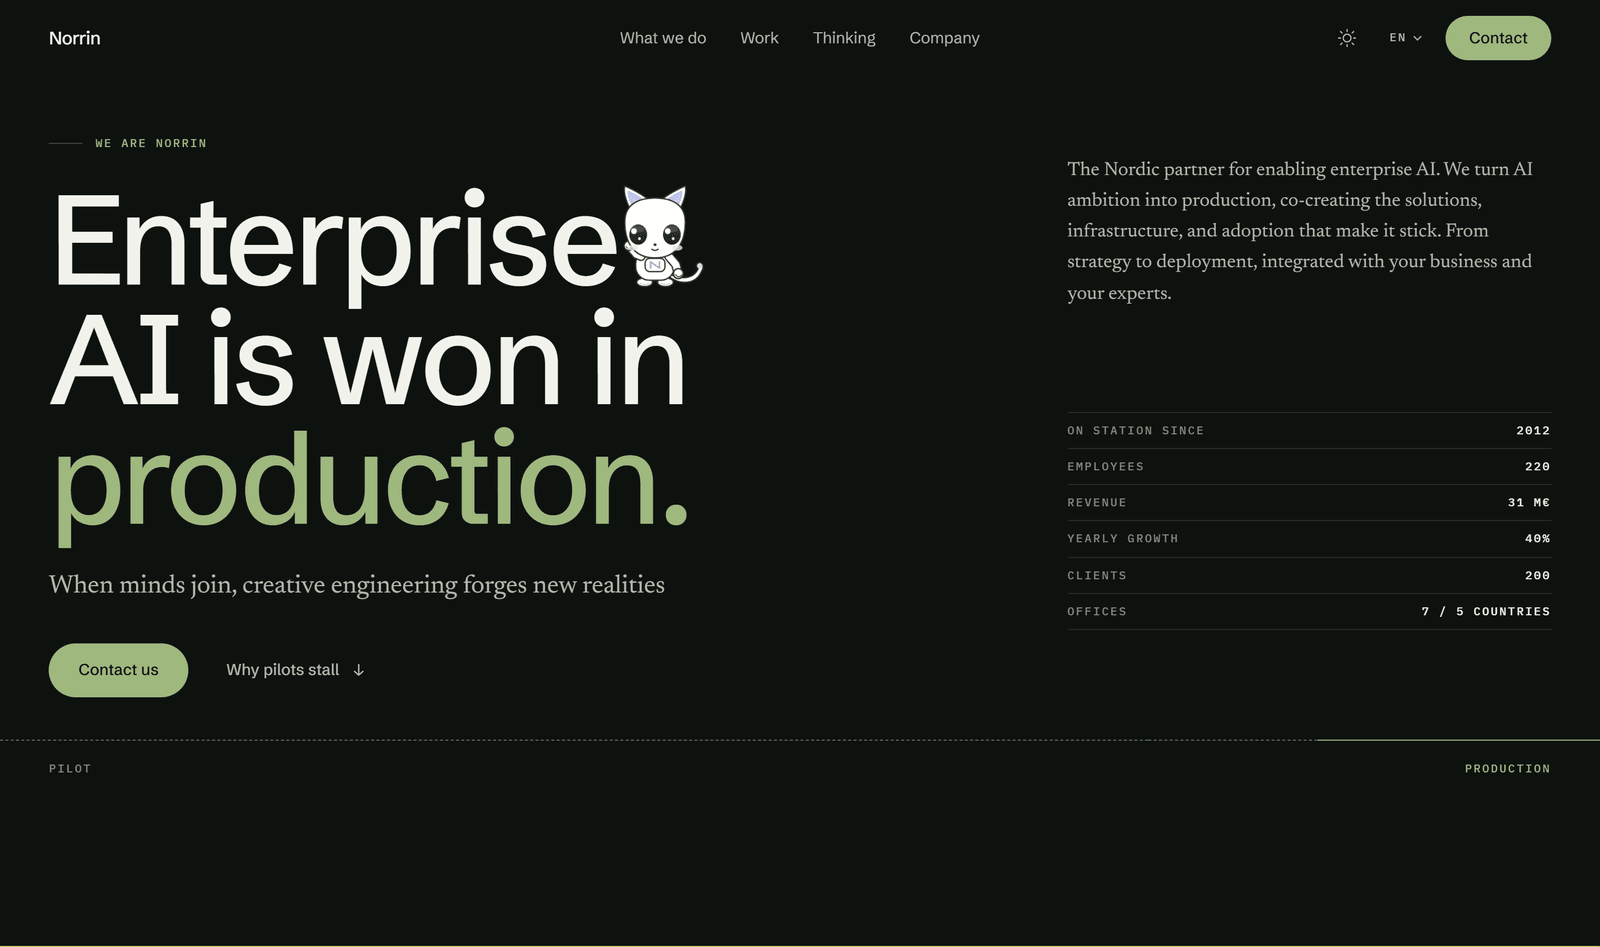
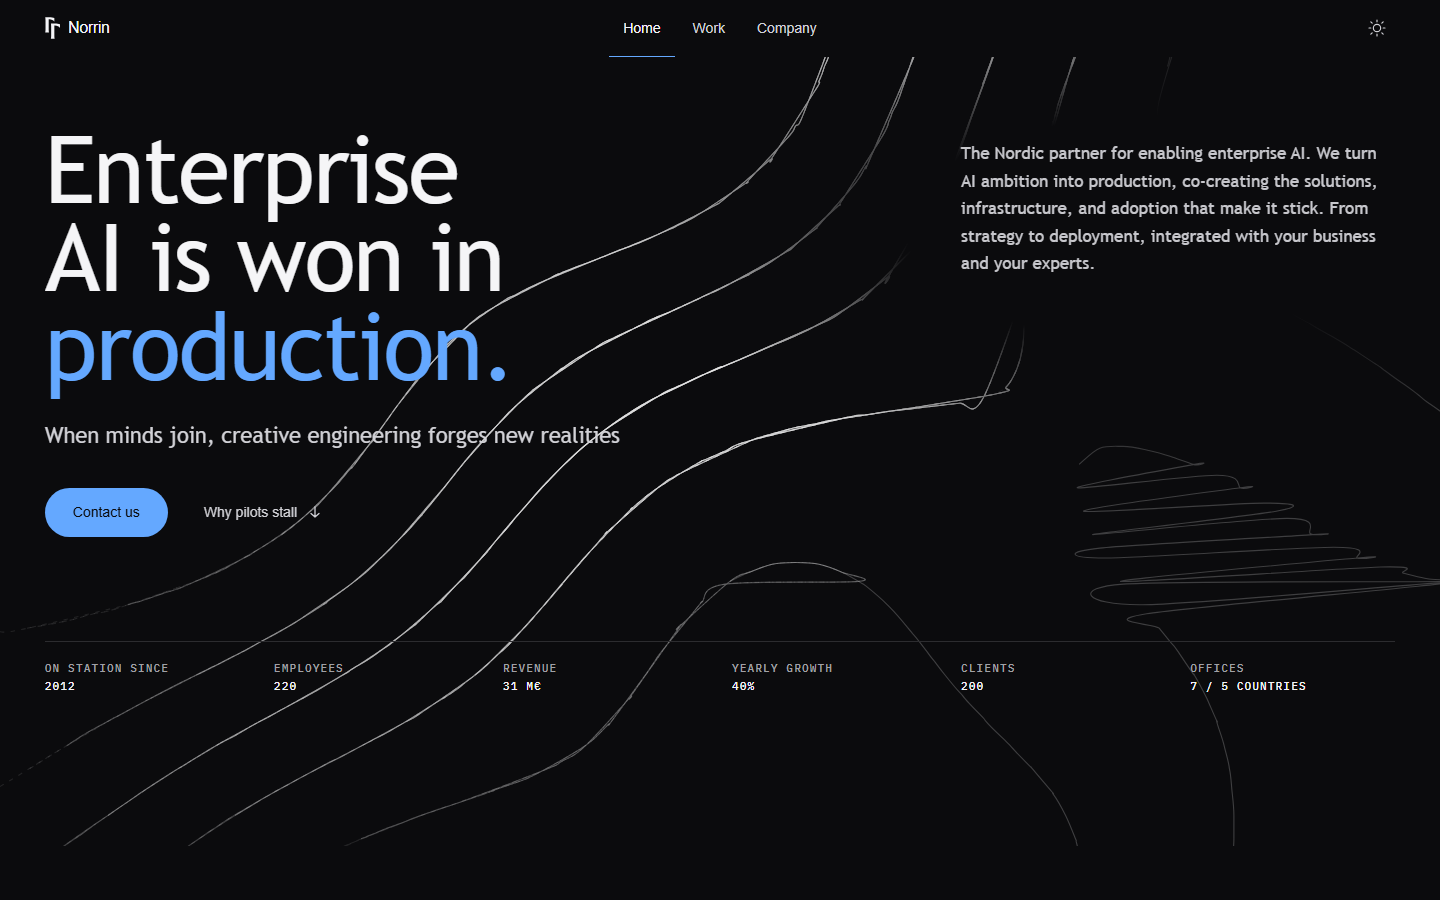
Simplify the README and refresh its screenshots
The README described a site that no longer exists: the deleted mascot, five routes, the old palette and fonts. It now covers the three pages, how to run and check the site, the stack, where things are, and what is and is not Norrin's. The screenshots are retaken from the current build.

diff --git a/README.md b/README.md
@@ -1,3 +1,5 @@
+# Norrin redesign
+
 An unsolicited redesign of a real company's website, built only from what they publish.
 
 hei I'm Anuj. This started as a design exercise and turned into an argument. Norrin's whole
@@ -7,233 +9,95 @@ homepage that sentence is an `h3` at 19.5px, two sections down, under a webinar 
 what the site looks like when that sentence is the point. That's why this exists.
 
 It's a speculative piece and it stays one. I have no brief, no analytics, no access to anyone
-at Norrin, and none of this is endorsed by them. Deployed on Vercel.
+at Norrin, and none of this is endorsed by them.
 
 **Live:** https://norrin-redesign.vercel.app
 
-AI blurp starts from here:
+![The home page](docs/images/hero.png)
 
-Everything on the page is built to make one claim *visible* rather than merely stated. One
-rule runs the length of the site. Left of the crossing it is dashed and lichen-grey —
-provisional, a pilot, not load-bearing. Right of it the rule goes solid — committed, in
-production. It is the only decorative device here, and it appears at five scales: the hero
-horizon, the spine of the pilot→production diagram, the company timeline (where it inverts
-cleanly for time — what happened is solid, what is ahead is dashed), the section rules, and
-the line that finally completes edge-to-edge above the closing CTA. The argument is the
-layout.
+## What's in it
 
-![The hero](docs/images/hero.png)
+Three pages:
 
-The hero: their thesis at display size with the `h1` it never had, their positioning
-statement hung from the cap line of "Enterprise", and the six public figures they bury on
-`/about-us` set as a station log. Nori stands in the notch beside the headline.
-
-`01 The gap` draws that argument rather than describing it, and it is the one section that
-re-lays-out rather than reflowing: at 320px the rule turns vertical and the three marks
-become a rail.
-
-![Careers](docs/images/careers.png)
-
-`Careers` — the one band of norrin.com this site had no counterpart for. It stands on
-Norrin's own team photograph under a scrim, with the invitation on the left and their values
-— "We believe in" and "Ways of working", verbatim from `/about-us` — as tabs on the right.
-
-![Proof](docs/images/proof.png)
-
-`07 Track record` — the 2012 → 2024 merger → 2025 Sweden → 2027 listing arc, drawn on the
-production line instead of left as one paragraph of prose.
-
-Two surfaces hang off the hash rather than the page: **`#compare`** puts each section of
-norrin.com beside the same section rebuilt, and **`#mascots`** is the pose workbench. Neither
-is in the nav; the homepage should make the argument rather than talk about it.
-
-## How it works
-
-The palette is derived from **Norrin's own published theme tokens**, extracted from their
-HubSpot theme CSS — not invented. Their system is a named Nordic nature palette (`moss`,
-`sun`, `forest`, `lichen`, `sand`, `bark`, `sky`, `turquoise`) that their live site barely
-exploits. Four survive as UI colours; seven nature colours is a mood board, not a system.
-
-Every token is declared once via `light-dark()`, so `[data-theme]` is the only switch. Dark
-is the default and it is in the markup — `<html data-theme="dark">` — not applied by script,
-so the dark-first flash cannot happen and a visitor with JS off still gets the theme the page
-was designed on.
-
-| Token | Light | Dark | Role |
-|---|---|---|---|
-| `--ground` | `#f8f7f3` | `#0e120f` | page — warm paper, `sand`'s only survival |
-| `--surface` | `#f1f0ea` | `#161b17` | alternating bands |
-| `--inverse` | `#123e28` *(forest)* | `#16452c` | the two inverted sections — raised, not deepened, in dark |
-| `--ink` / `-2` / `-3` | `#14170f` / `#4a4d42` / `#696d5f` | `#f2f2ec` / `#b4b8ac` / `#868a7c` | text levels |
-| `--hairline` / `-strong` | `#d8d7cc` / `#b3b3a5` | `#292f2a` / `#404841` | **all** separation |
-| `--accent` | `#1a5335` *(forest, lifted)* | `#9fb87e` *(sage)* | the only accent touching type or stroke |
-| `--signal` | `#f6f279` *(sun)* | same | fill only, three uses per page |
-| `--inactive` | `#88967e` *(lichen)* | `#5d6a55` | "not yet in production" — strokes only |
-
-Three rules hold it together:
-
-1. **Separation is 1px hairlines. There are zero box-shadows on the site.**
-2. **Sun is a signal, never a surface.** Anything sitting on sun uses fixed dark ink in both themes.
-3. **Radius means you can touch it.** Structure stays square — rules, bands, ruled tables, photographs. Only what responds is rounded.
-
-Typography is three self-hosted families: **Schibsted Grotesk** (display and UI),
-**Newsreader** (thesis, leads, case bodies), **IBM Plex Mono** (indices, unit labels,
-telemetry). Norrin's own faces are available to this demo — it is private and built only to
-show Norrin — but their heading face is a script, which in an enterprise-AI context costs
-them authority.
-
-## Nori
-
-Nori is the mascot: a small white robot with a lavender antenna. `tools/nori.mjs` draws the
-character once and emits every `public/nori-*.svg` — 13 poses plus a head crop used as the
-nav mark and favicon. **The app never recolours or re-paths the drawings.** `Nori.tsx` places,
-sizes and idles them and nothing else.
-
-| Pose | Where it is used |
+| Page | Sections |
 |---|---|
-| `prop` | the hero, standing in the notch beside "Enterprise" |
-| `sit` | `04 Customers` — seated on a rule |
-| `peek` | `05 Thinking` — over a long ledge |
-| `read` | `07 Track record` |
-| `wave` | the footer |
+| `/` | Hero, The Gap, Pillars, Contact |
+| `/work` | Customer cases, Roles, Track record |
+| `/company` | Thinking, Careers |
 
-Each pose is drawn to meet **one kind of edge** and they are not interchangeable. The rule
-was learned the expensive way: **Nori may touch a rule, never type.** A white character with
-a thin contour resting a hand on white ink has no visible contact point — every join that
-works on this site is the mascot meeting a hairline, the production line, or a card border.
-Idles pivot on a **measured contact point** (`anchors.ts`), not the box centre, so a figure
-resting on a rule never lifts off it.
+![Customer cases on /work](docs/images/work.png)
 
-## Motion
+![Thinking on /company](docs/images/thinking.png)
 
-**No animation library.** Reveals are an IntersectionObserver flipping one attribute over a
-CSS resting state; everything continuous is a native scroll-driven animation. *No JS*, *no
-IntersectionObserver*, *no scroll timelines* and *reduced motion* all degrade to the finished,
-visible page — the earlier GSAP version set `autoAlpha: 0` inline and left copy permanently
-invisible if a trigger misfired. Dropping GSAP cut **46 kB gzip**.
+There are also four review pages. They aren't in the nav; you open them by adding a hash to
+the URL:
 
-Every keyframe runs *from* a diminished state *to* the resting one, and every scroll rule
-lives inside `@supports (animation-timeline: view())`. `.shots/anim.mjs` fails if one leaks
-out.
-
-## What's in the repo
-
-| Path | Responsibility |
-|---|---|
-| `src/data/norrin.ts` | the single content source — every string provenance-commented against a public page |
-| `src/index.css` | the whole design system: tokens, type roles, controls, the scroll-motion layer |
-| `src/components/primitives/` | `Container`, `Grid`, `SectionHeader`, `Eyebrow`, `Reveal`, `SplitLines`, `Counter`, `Photo` |
-| `src/components/mascot/nori/` | placement and sizing only, never repainting |
-| `src/components/sections/` | one file per section, plus `Compare` and `MascotLab` |
-| `src/pages/` | one file per route, plus `SiteLayout` — the shell every route renders into |
-| `src/routes.tsx` | the five-route table; `App.tsx` still gates the hash surfaces ahead of it |
-| `public/_redirects`, `vercel.json` | SPA fallback — Netlify and Cloudflare Pages read the first, Vercel reads the second |
-
-### Why the host config looks the way it does
-
-`vercel.json` states `framework`, `buildCommand` and `outputDirectory` rather than
-leaving them to the dashboard, because the first deploy failed on exactly that gap:
-`No Output Directory named "build" found after the Build completed`. The build had
-already succeeded — Vite wrote `dist/` as it always does — and Vercel then went
-looking in `build/`, which is Create React App's directory and has never been this
-project's. `vercel.json` takes precedence over project settings, so declaring it here
-means the deploy no longer depends on a setting invisible from the source tree.
-`outputDirectory` is `dist` because that is Vite's default and `vite.config` does not
-override it; if it ever does, the two move together.
-
-The reasoning lives in this file and not in `vercel.json` because Vercel validates
-that file against a strict schema and rejects unknown keys — including the `"//"`
-convention normally used to smuggle a comment into JSON. It fails the deploy outright
-rather than ignoring it.
-
-The rewrite is what makes the five routes deep-linkable. The site is client-rendered
-with no SSR, so `/work` exists only once React has booted; without a catch-all, every
-route but `/` returns a 404 from the static host and the split ships broken for anyone
-who does not enter through the homepage.
-| `tools/nori.mjs` | draws the character once, emits all 13 poses + the mark |
-| `tools/photos.mjs` | re-encodes Norrin's own photography to AVIF/WebP/JPEG at three widths |
-| `tools/shot.mjs` | screenshot harness — viewports, themes, section clips, nav states |
-| `tools/audit.mjs` | axe-core (incl. open nav drawer) + heading order + landmarks |
-| `tools/palette.mjs` | every colour pair the system renders, declared and measured |
-
-## Verified, not asserted
-
-Four gates run alongside the build, and each one exits non-zero on a miss.
-
-| Gate | What it proves |
-|---|---|
-| `node tools/palette.mjs` | 65 rendered colour pairs, alpha-composited onto their real backgrounds |
-| `node tools/audit.mjs` | axe-core, light and dark, `wcag2a/2aa/21a/21aa` — **zero violations** |
-| `node .shots/anim.mjs` | nothing displaced at rest, every scroll rule inside `@supports`, content visible in every degraded path |
-| `npm run build` | `tsc -b` then Vite |
-
-Contrast was a real finding, not a formality: `--ink-3` measured **3.67:1** and drove ~52
-nodes of failure at 11px before being recomputed to `#696d5f` (4.96:1).
-
-| | |
-|---|---|
-| JS | 273 kB / **83 kB gzip** (React 19 + ReactDOM is essentially all of it) |
-| CSS | 56 kB / **12 kB gzip** |
-| Fonts | **3 files, 117 kB** — latin-subset woff2 only, no italic, one mono weight |
-| Photography | 6 images, AVIF/WebP/JPEG at 640/1280/1920, self-hosted, lazy below the fold |
-
-Verified at 320 / 390 / 834 / 1280 / 1512. No horizontal overflow at 320px.
+- `#styleguide`: the design system, rendered in both themes
+- `#compare`: each norrin.com section beside its rebuilt version
+- `#backdrops`: options for the picture behind The Gap
+- `#fonts`: display-face candidates at real size
 
 ## Run it locally
 
-You need Node.js and npm. There is no database, no API key and no service to sign up for —
-it is a static Vite build.
+You need Node.js. There's no database, API key or backend; it's a static Vite site.
 
 ```bash
 npm install
-npm run dev      # http://localhost:5173
+npm run dev       # http://localhost:5173
+npm run build     # typecheck + production build
+npm run preview   # serve the build at http://localhost:4173
 ```
+
+## Checks
+
+Every change has to pass these before it ships. The full rules are in [CLAUDE.md](CLAUDE.md).
 
 ```bash
-npm run build    # typecheck + production build
-npm run lint     # oxlint — must be zero
+npm run build
+npm run lint                                    # oxlint, must report zero
+node tools/palette.mjs                          # all 128 colour pairs meet contrast
+node tools/audit.mjs http://localhost:4173/     # axe, light and dark (needs `npm run preview`)
+node tools/shot.mjs --theme=dark                # screenshots, then look at them
 ```
 
-The QA harness needs the dev server already running in another terminal:
+Run the audit on `/work` and `/company` too, not just `/`. Axe doesn't check focus rings, so
+check those by hand in both themes.
 
-```bash
-node tools/palette.mjs                          # 65/65 colour pairs
-node tools/audit.mjs                            # axe, light + dark
-node tools/shot.mjs --clip=hero --theme=dark    # one [data-shot] region
-node tools/shot.mjs --all                       # every viewport
-```
+## Stack
 
-Two things that will save you a debugging session:
+React 19, Vite, Tailwind CSS v4, React Router 7 and Radix UI for interactive parts like tabs.
+Scroll motion uses native CSS scroll-driven animations rather than a library, and every
+animation respects reduced motion.
 
-- **`tools/shot.mjs` takes `--clip=<name>`, not `--sections`.** The name is the value of a
-  `data-shot` attribute: `hero`, `gap`, `roles`, `pillars`, `work`, `thinking`, `careers`,
-  `proof`, `contact`, `footer`.
-- **A `Photo` frame must be `overflow: clip`, never `overflow: hidden`.** `hidden` creates a
-  scroll container, and a `view()` timeline inside one that never scrolls sits frozen at 0%
-  forever — so the careers photograph silently stops animating and nothing errors.
+## Where things are
+
+| Path | What it is |
+|---|---|
+| `src/data/norrin.ts` | all content, each string traced to a public Norrin page |
+| `src/index.css` | the design system: colour tokens, type, cards, motion |
+| `src/pages/` | one file per page, plus `SiteLayout` (nav, footer, scroll behaviour) |
+| `src/components/sections/` | one file per section, plus the review pages |
+| `src/routes.tsx` | the route table; `App.tsx` handles the review-page hashes first |
+| `tools/` | photo encoding, screenshots, accessibility audit, contrast checks |
+| `docs/` | research on Norrin and on other Nordic consultancies, plus design notes |
+| `vercel.json`, `public/_redirects` | send every path to the app so `/work` and `/company` load directly |
 
 ## What this is not
 
-Nothing here invents a statistic, client, testimonial, award or capability. Where content
-does not exist publicly it is **absent rather than fabricated**. The customer roster is set
-as type because I hold no licence to those marks. The photography is Norrin's own,
-self-hosted rather than hotlinked — including the headshots of the three people the Contact
-band names, which Norrin publishes on its own services page; the alt text is mine, because
-five of their six homepage images ship with none. Two photographs are treated: the causeway
-under the Contact band and the team photograph under the Careers band each sit beneath a
-scrim, as explicit, recorded exceptions to the rule that Norrin's photographs are never
-altered (`CLAUDE.md` §1.8).
+Nothing here invents a statistic, client, testimonial or capability. Where content doesn't
+exist publicly, it's left out.
 
-Assumed, because no internal information was available: that the primary visitor is an
-enterprise buyer at a large Nordic enterprise with candidates secondary, that the primary
-conversion is a qualified conversation, and that the Anthropic + Microsoft alignment is
-deliberate positioning.
+- Customer names are set as type, because I hold no licence to their logos.
+- The photos, the three Contact headshots and the logo mark in the navbar are Norrin's own,
+  self-hosted. The alt text is mine.
+- Two photographs sit under a dark overlay so text stays readable: the causeway behind
+  Contact and the team photo behind Careers. Both are recorded exceptions in `CLAUDE.md` §1.8.
 
-A real build would still need testimonial quotes with attribution, licensed customer logo
-files, real destinations behind the nav and case links, case metrics beyond the four Norrin
-publishes, and CRM wiring.
+Known gaps:
 
-Reasoning behind the decisions is in [docs/design-notes.md](docs/design-notes.md); the
-evidence the redesign argues from is in [docs/research-brief.md](docs/research-brief.md).
+- The type follows Norrin's own font roles (ABC Camera Plain and LFS Adelia), but those font
+  files aren't included, so the site falls back to Helvetica and Trebuchet.
+- A real build would still need attributed testimonials, licensed customer logos, real links
+  behind the Thinking items and case studies, and a CRM behind the contact form.
 
 Not affiliated with or endorsed by Norrin.
